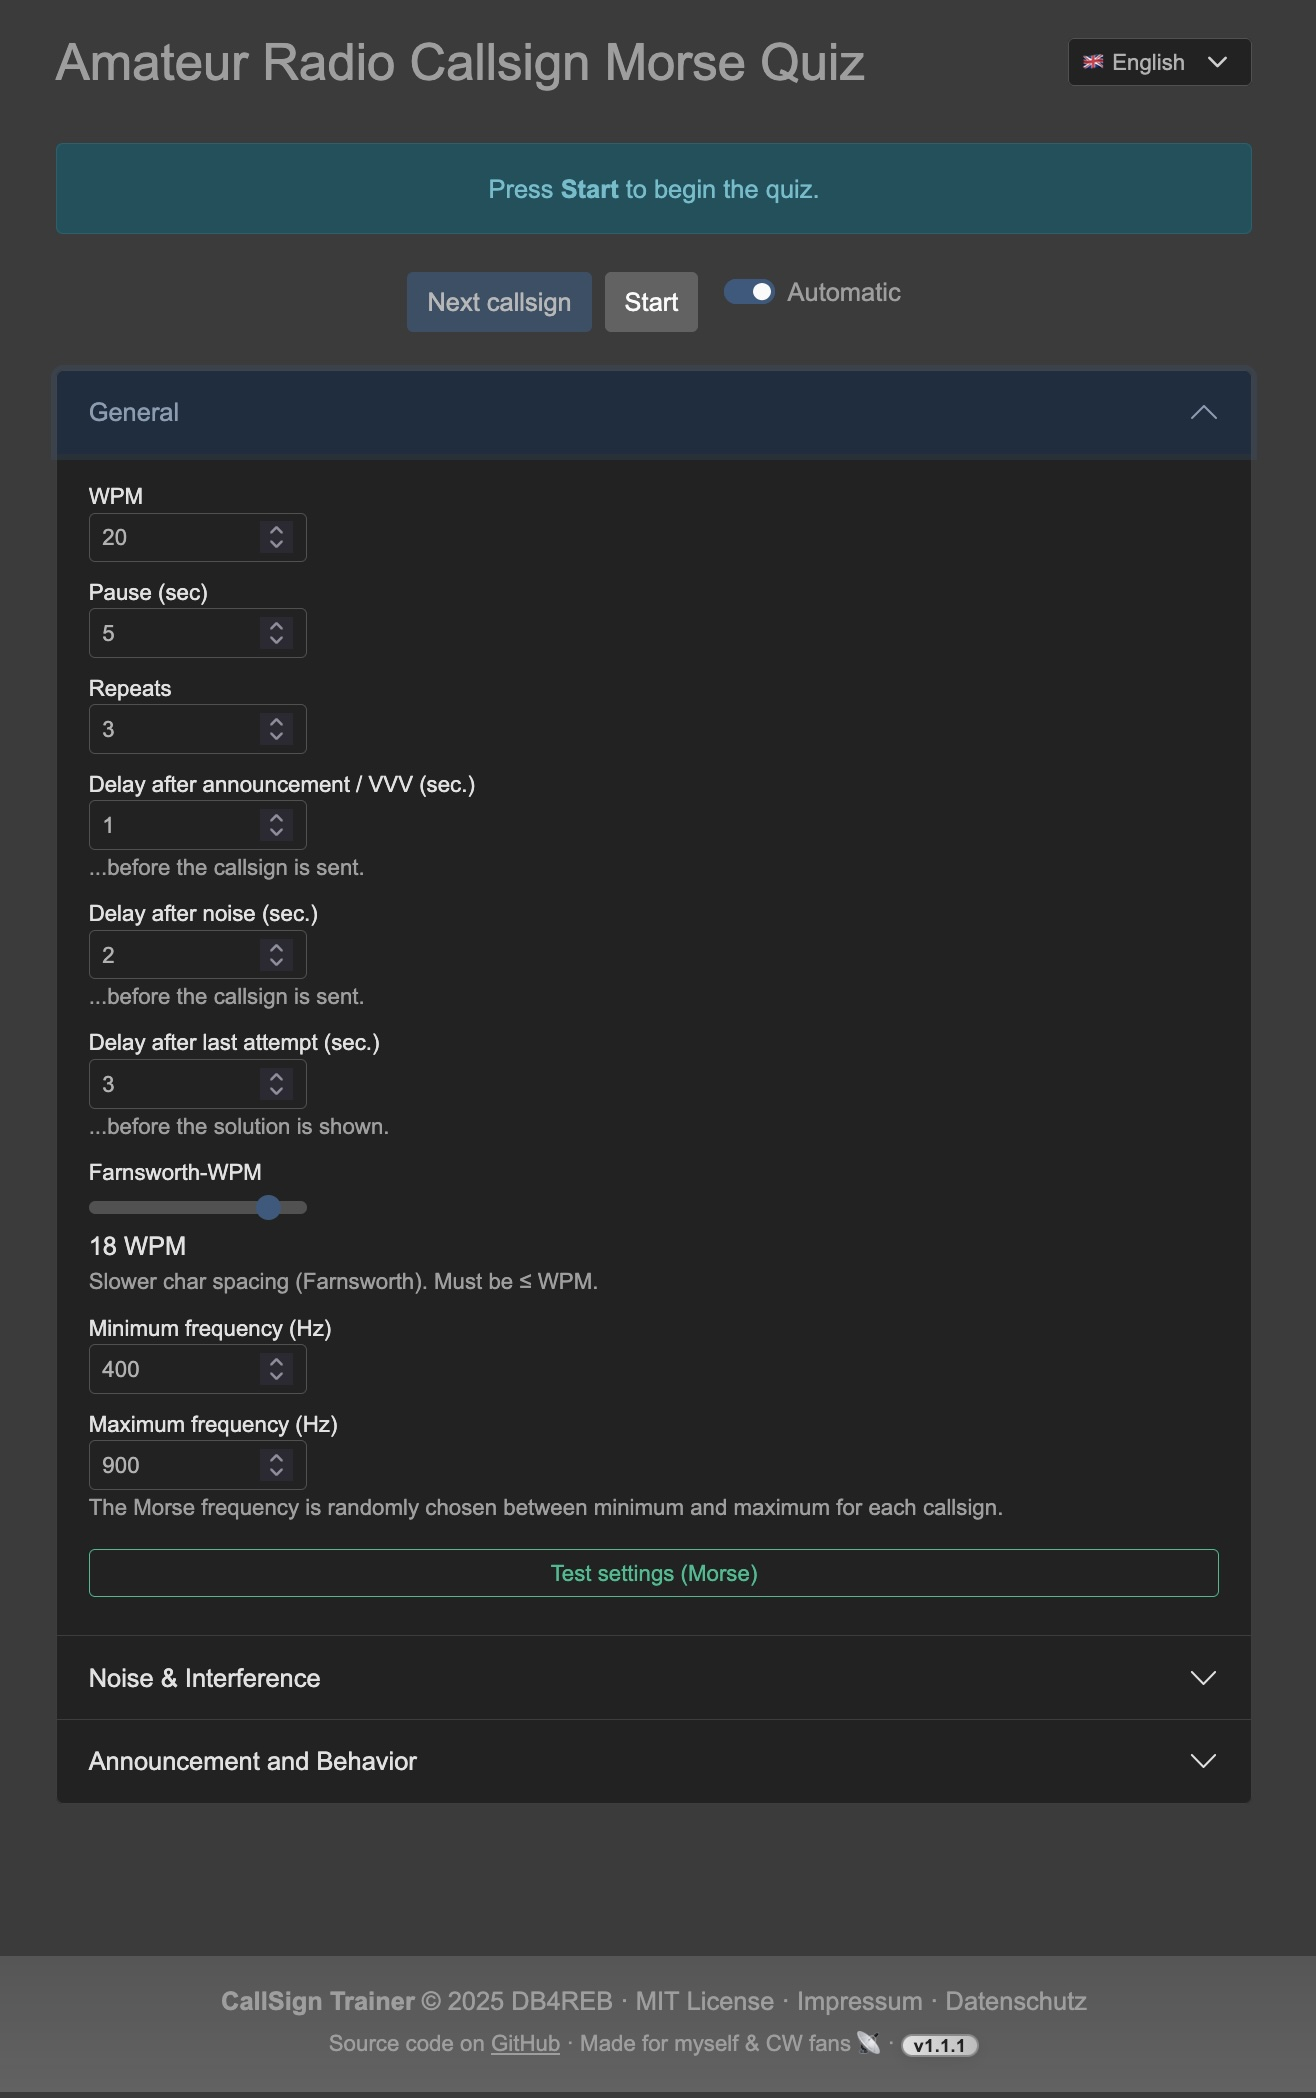
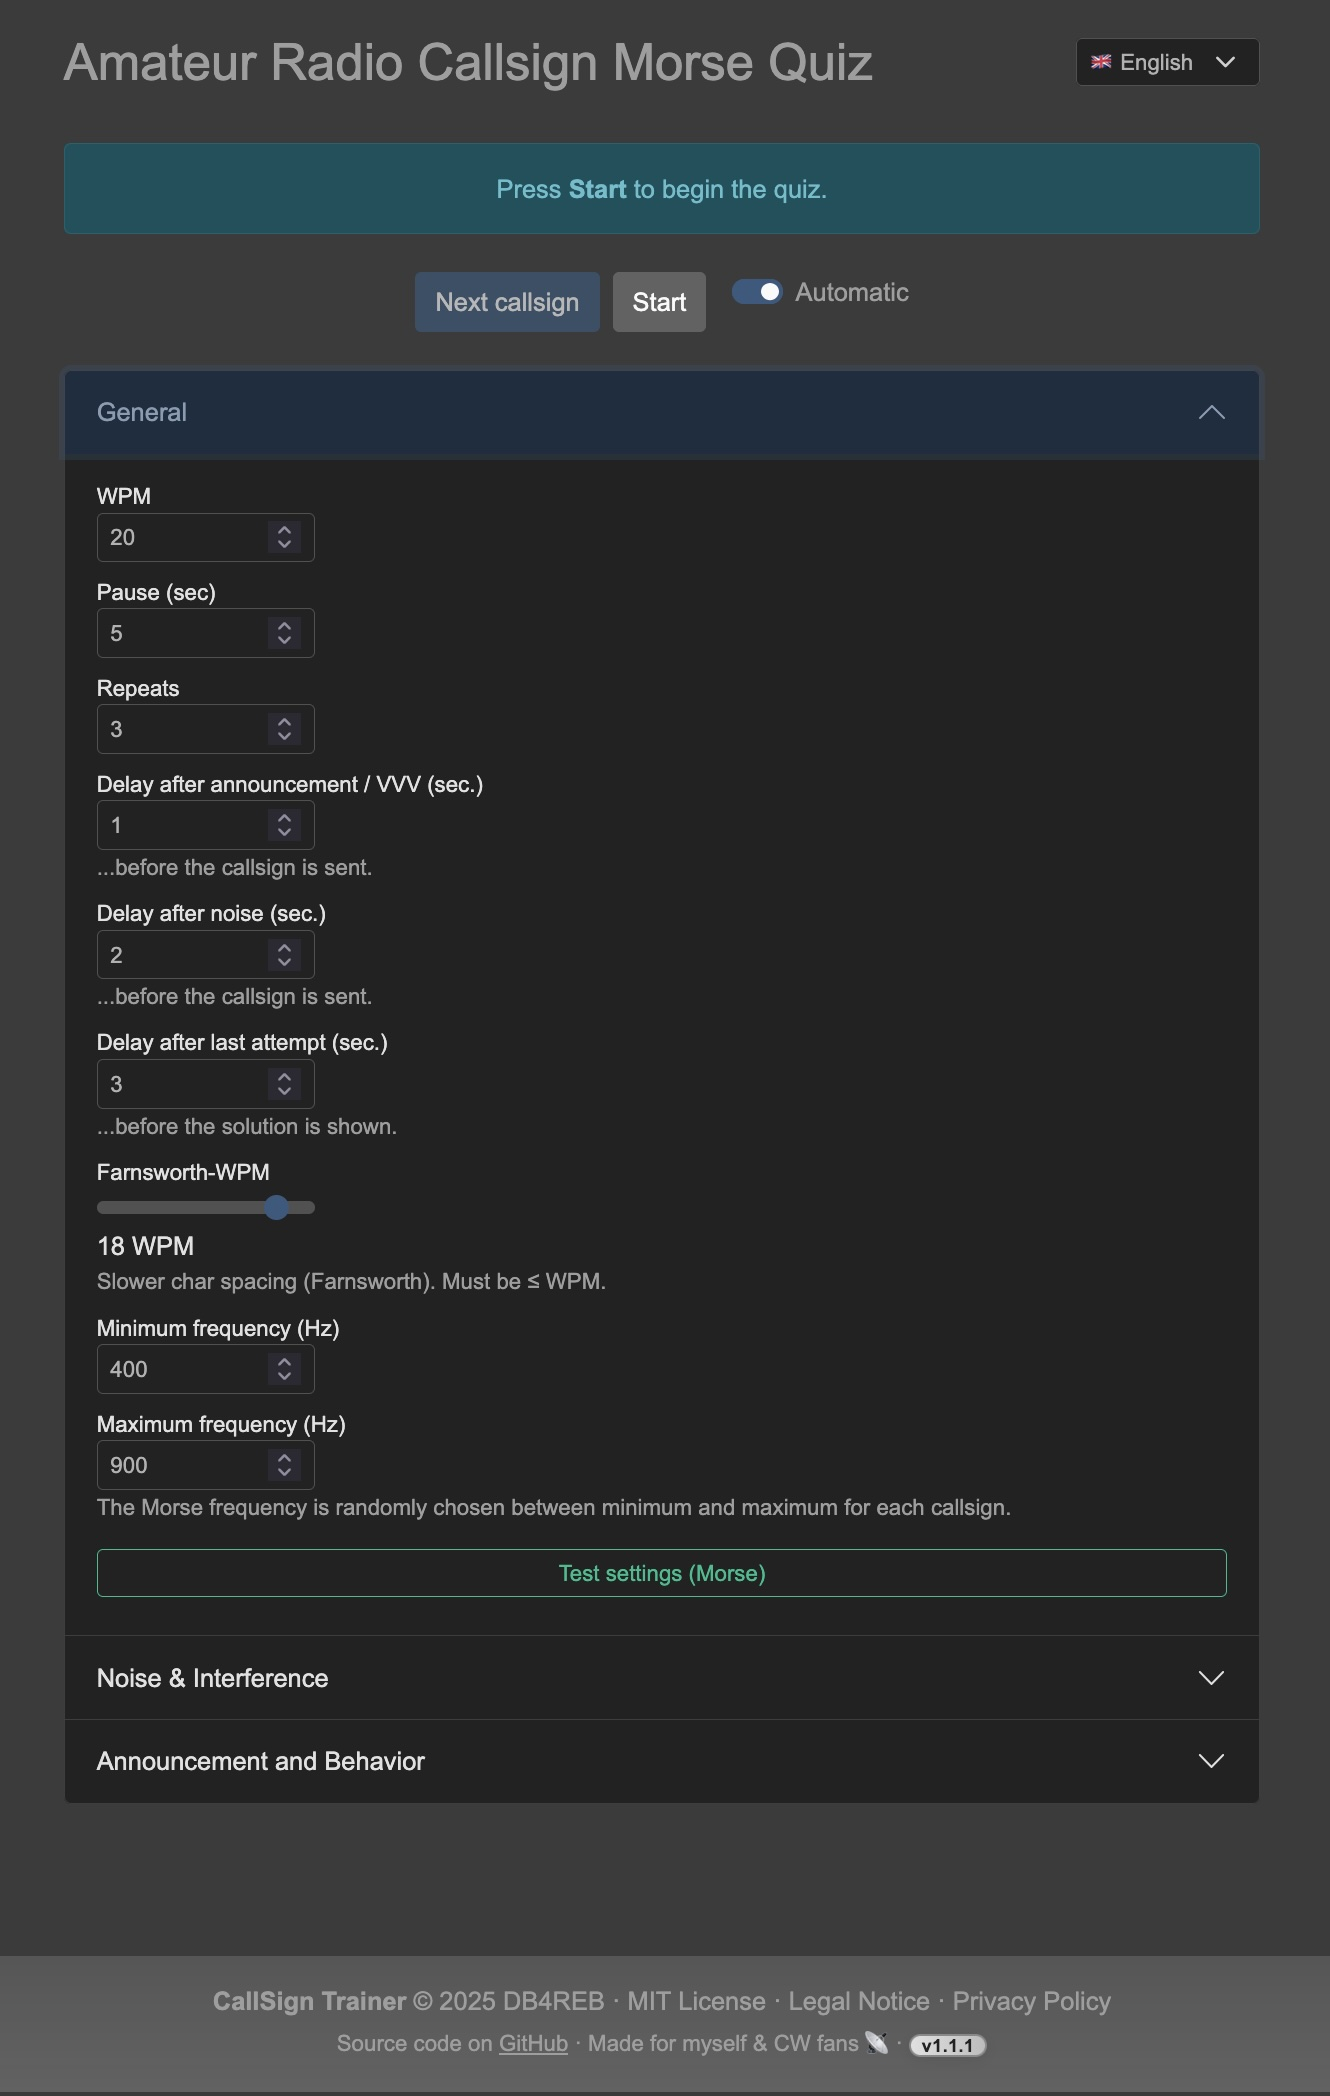
fixed i18n

diff --git a/impressum.html b/impressum.html
@@ -48,58 +48,71 @@
 </head>
 <body>
     <div class="legal-card">
-        <h1>Impressum</h1>
-        <p>
-            Angaben gemäß § 5 TMG<br>
-            Ralf El Barnoussi<br>
-            Lohschwer Weg 25<br>
-            46509 Xanten<br>
-            Deutschland
-        </p>
-        <p>
-            Kontakt:<br>
-            E-Mail: rebelba42@gmail.com
-        </p>
-        <p>
-            Verantwortlich für den Inhalt nach § 55 Abs. 2 RStV:<br>
-            Ralf El Barnoussi, Adresse wie oben
-        </p>
-        <p>
-            Dieses Projekt ist Open Source und dient ausschließlich nicht-kommerziellen Zwecken.
-        </p>
-        <p>
-            <strong>Haftungsausschluss:</strong><br>
-            Dieses Projekt dient ausschließlich zu Lern- und Demonstrationszwecken. Es wird keine Haftung für die Richtigkeit, Vollständigkeit oder Aktualität der bereitgestellten Inhalte übernommen. Die Nutzung erfolgt auf eigene Gefahr. Für Schäden, die aus der Nutzung dieser Anwendung entstehen, wird keine Haftung übernommen.
-        </p>
-        <hr>
-        <h1>Legal Notice</h1>
-        <p>
-            Information according to § 5 TMG (German Telemedia Act)<br>
-            Ralf El Barnoussi<br>
-            Lohschwer Weg 25<br>
-            46509 Xanten<br>
-            Germany
-        </p>
-        <p>
-            Contact:<br>
-            E-mail: rebelba42@gmail.com
-        </p>
-        <p>
-            Responsible for content according to § 55 Abs. 2 RStV:<br>
-            Ralf El Barnoussi, address as above
-        </p>
-        <p>
-            This project is open source and for non-commercial purposes only.
-        </p>
-        <p>
-            <strong>Disclaimer:</strong><br>
-            This project is for educational and demonstration purposes only. No liability is assumed for the accuracy, completeness, or timeliness of the provided content. Use at your own risk. No liability is accepted for any damages resulting from the use of this application.
-        </p>
-        <a href="index.html" class="btn btn-outline-info btn-back">Zurück zur Startseite / Back to main page</a>
+        <div id="impressum-de">
+            <h1>Impressum</h1>
+            <p>
+                Angaben gemäß § 5 TMG<br>
+                Ralf El Barnoussi<br>
+                Lohscher Weg 25<br>
+                46509 Xanten<br>
+                Deutschland
+            </p>
+            <p>
+                Kontakt:<br>
+                E-Mail: rebelba42@gmail.com
+            </p>
+            <p>
+                Verantwortlich für den Inhalt nach § 55 Abs. 2 RStV:<br>
+                Ralf El Barnoussi, Adresse wie oben
+            </p>
+            <p>
+                Dieses Projekt ist Open Source und dient ausschließlich nicht-kommerziellen Zwecken.
+            </p>
+            <p>
+                <strong>Haftungsausschluss:</strong><br>
+                Dieses Projekt dient ausschließlich zu Lern- und Demonstrationszwecken. Es wird keine Haftung für die Richtigkeit, Vollständigkeit oder Aktualität der bereitgestellten Inhalte übernommen. Die Nutzung erfolgt auf eigene Gefahr. Für Schäden, die aus der Nutzung dieser Anwendung entstehen, wird keine Haftung übernommen.
+            </p>
+        </div>
+        <div id="impressum-en" style="display:none;">
+            <h1>Legal Notice</h1>
+            <p>
+                Information according to § 5 TMG (German Telemedia Act)<br>
+                Ralf El Barnoussi<br>
+                Lohscher Weg 25<br>
+                46509 Xanten<br>
+                Germany
+            </p>
+            <p>
+                Contact:<br>
+                E-mail: rebelba42@gmail.com
+            </p>
+            <p>
+                Responsible for content according to § 55 Abs. 2 RStV:<br>
+                Ralf El Barnoussi, address as above
+            </p>
+            <p>
+                This project is open source and for non-commercial purposes only.
+            </p>
+            <p>
+                <strong>Disclaimer:</strong><br>
+                This project is for educational and demonstration purposes only. No liability is assumed for the accuracy, completeness, or timeliness of the provided content. Use at your own risk. No liability is accepted for any damages resulting from the use of this application.
+            </p>
+        </div>
+        <a href="index.html" class="btn btn-outline-info btn-back" id="back-btn">Zurück zur Startseite / Back to main page</a>
     </div>
     <footer>
         &copy; 2025 CallSignTrainer Open Source Project by DB4REB&middot;
         <a href="https://github.com/RebElba42/CallSignTrainer" target="_blank">GitHub</a>
     </footer>
+    <script>
+    (function() {
+        let lang = localStorage.getItem('lang') || (navigator.language || 'de').substring(0,2);
+        if (lang !== 'en') lang = 'de';
+        document.getElementById('impressum-de').style.display = (lang === 'de') ? '' : 'none';
+        document.getElementById('impressum-en').style.display = (lang === 'en') ? '' : 'none';
+        var backBtn = document.getElementById('back-btn');
+        if (backBtn) backBtn.textContent = (lang === 'de') ? 'Zurück zur Startseite' : 'Back to main page';
+    })();
+    </script>
 </body>
 </html>

diff --git a/datenschutz.html b/datenschutz.html
@@ -48,26 +48,39 @@
 </head>
 <body>
     <div class="legal-card">
-        <h1>Datenschutzerklärung</h1>
-        <p>
-            Diese Website speichert und verarbeitet keine personenbezogenen Daten.<br>
-            Es werden keine Cookies gesetzt und keine externen Analyse-Tools verwendet.<br>
-            <strong>Hinweis:</strong> Einstellungen (wie Sprache oder Geschwindigkeit etc.) werden ausschließlich lokal im Browser (localStorage) gespeichert und nicht an den Server übertragen.<br>
-            Bei Fragen zum Datenschutz wenden Sie sich bitte an: rebelba42@gmail.com
-        </p>
-        <hr>
-        <h1>Privacy Policy</h1>
-        <p>
-            This website does not store or process any personal data.<br>
-            No cookies are set and no external analytics tools are used.<br>
-            <strong>Note:</strong> Settings (like language or speed etc.) are stored locally in the browser (localStorage) and not transmitted to the server.<br>
-            For questions regarding privacy, please contact: rebelba42@gmail.com
-        </p>
-        <a href="index.html" class="btn btn-outline-info btn-back">Zurück zur Startseite / Back to main page</a>
+        <div id="privacy-de">
+            <h1>Datenschutzerklärung</h1>
+            <p>
+                Diese Website speichert und verarbeitet keine personenbezogenen Daten.<br>
+                Es werden keine Cookies gesetzt und keine externen Analyse-Tools verwendet.<br>
+                <strong>Hinweis:</strong> Einstellungen (wie Sprache oder Geschwindigkeit etc.) werden ausschließlich lokal im Browser (localStorage) gespeichert und nicht an den Server übertragen.<br>
+                Bei Fragen zum Datenschutz wenden Sie sich bitte an: rebelba42@gmail.com
+            </p>
+        </div>
+        <div id="privacy-en" style="display:none;">
+            <h1>Privacy Policy</h1>
+            <p>
+                This website does not store or process any personal data.<br>
+                No cookies are set and no external analytics tools are used.<br>
+                <strong>Note:</strong> Settings (like language or speed etc.) are stored locally in the browser (localStorage) and not transmitted to the server.<br>
+                For questions regarding privacy, please contact: rebelba42@gmail.com
+            </p>
+        </div>
+        <a href="index.html" class="btn btn-outline-info btn-back" id="back-btn">Zurück zur Startseite / Back to main page</a>
     </div>
     <footer>
         &copy; 2025 CallSignTrainer Open Source Project by DB4REB &middot;
         <a href="https://github.com/RebElba42/CallSignTrainer" target="_blank">GitHub</a>
     </footer>
+    <script>
+    (function() {
+        let lang = localStorage.getItem('lang') || (navigator.language || 'de').substring(0,2);
+        if (lang !== 'en') lang = 'de';
+        document.getElementById('privacy-de').style.display = (lang === 'de') ? '' : 'none';
+        document.getElementById('privacy-en').style.display = (lang === 'en') ? '' : 'none';
+        var backBtn = document.getElementById('back-btn');
+        if (backBtn) backBtn.textContent = (lang === 'de') ? 'Zurück zur Startseite' : 'Back to main page';
+    })();
+    </script>
 </body>
 </html>

diff --git a/index.html b/index.html
@@ -41,8 +41,8 @@
             <div class="text-center mb-1">
                 <span class="fw-bold">CallSign Trainer</span> &copy; 2025 DB4REB
                 &middot; <a href="https://github.com/RebElba42/CallSignTrainer/blob/main/LICENSE" class="link-light link-underline-opacity-0" target="_blank">MIT License</a>
-                &middot; <a href="impressum.html" class="link-light link-underline-opacity-0">Impressum</a>
-                &middot; <a href="datenschutz.html" class="link-light link-underline-opacity-0">Datenschutz</a>
+                &middot; <a href="impressum.html" class="link-light link-underline-opacity-0"><span id="footer-impressum-link">Impressum</span></a>
+                &middot; <a href="datenschutz.html" class="link-light link-underline-opacity-0"><span id="footer-datenschutz-link">Datenschutz</span></a>
             </div>
             <div class="text-center mb-1 small">
                 Source code on <a href="https://github.com/RebElba42/CallSignTrainer" class="link-light" target="_blank">GitHub</a>

diff --git a/js/ui.js b/js/ui.js
@@ -39,6 +39,15 @@ export function isIOSSafari() {
     const isSafari = !!ua.match(/Safari/i) && !ua.match(/CriOS|FxiOS|EdgiOS/);
     return isIOS && isSafari;
 }
+/**
+ * Updates the footer links with the current language translations.
+ */
+export function updateFooterLinks() {
+    const impressum = document.getElementById('footer-impressum-link');
+    const datenschutz = document.getElementById('footer-datenschutz-link');
+    if (impressum) impressum.textContent = t('impressum');
+    if (datenschutz) datenschutz.textContent = t('datenschutz');
+}
 
 /**
  * Enables or disables main action buttons in the UI.
@@ -596,6 +605,7 @@ export function initUI() {
         renderLanguageSelect();
         renderSettings();
         renderControls();
+        updateFooterLinks();        
         let state = getQuizState();
         if (!state.isStarted) {
             quizContainer.innerHTML = `<div class="alert alert-info text-center py-3">${t('press_start')}</div>`;
